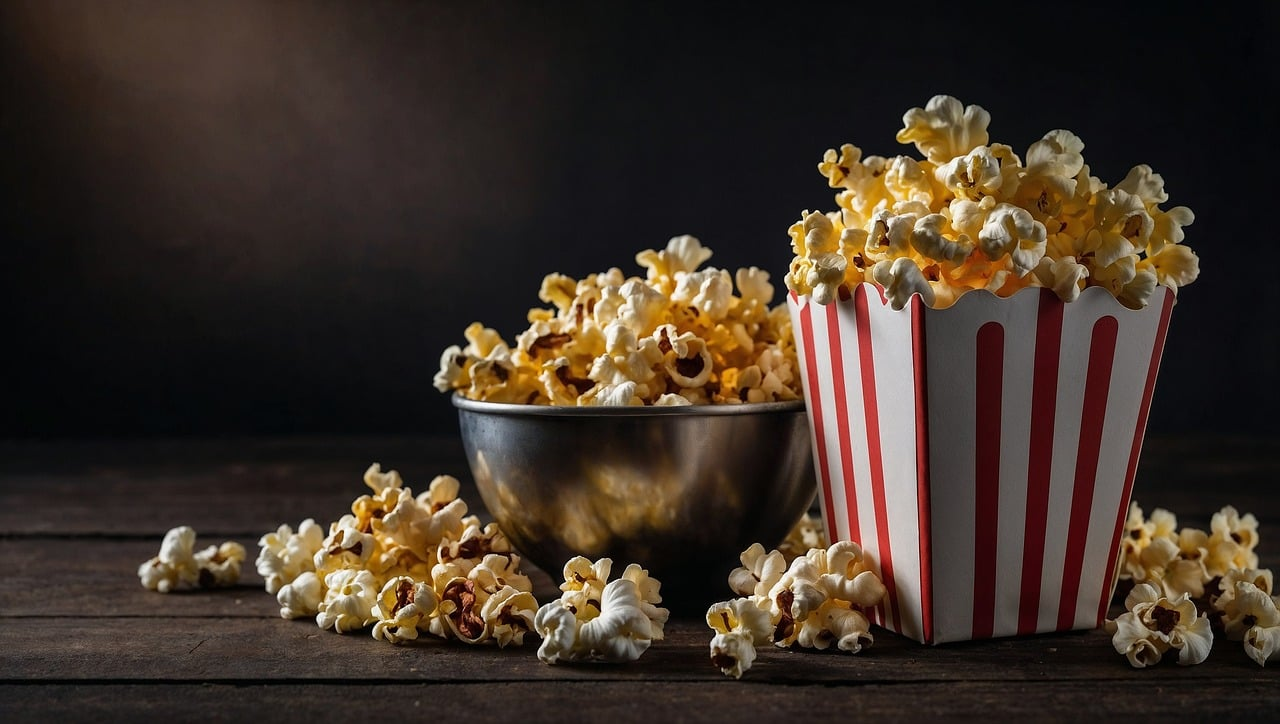
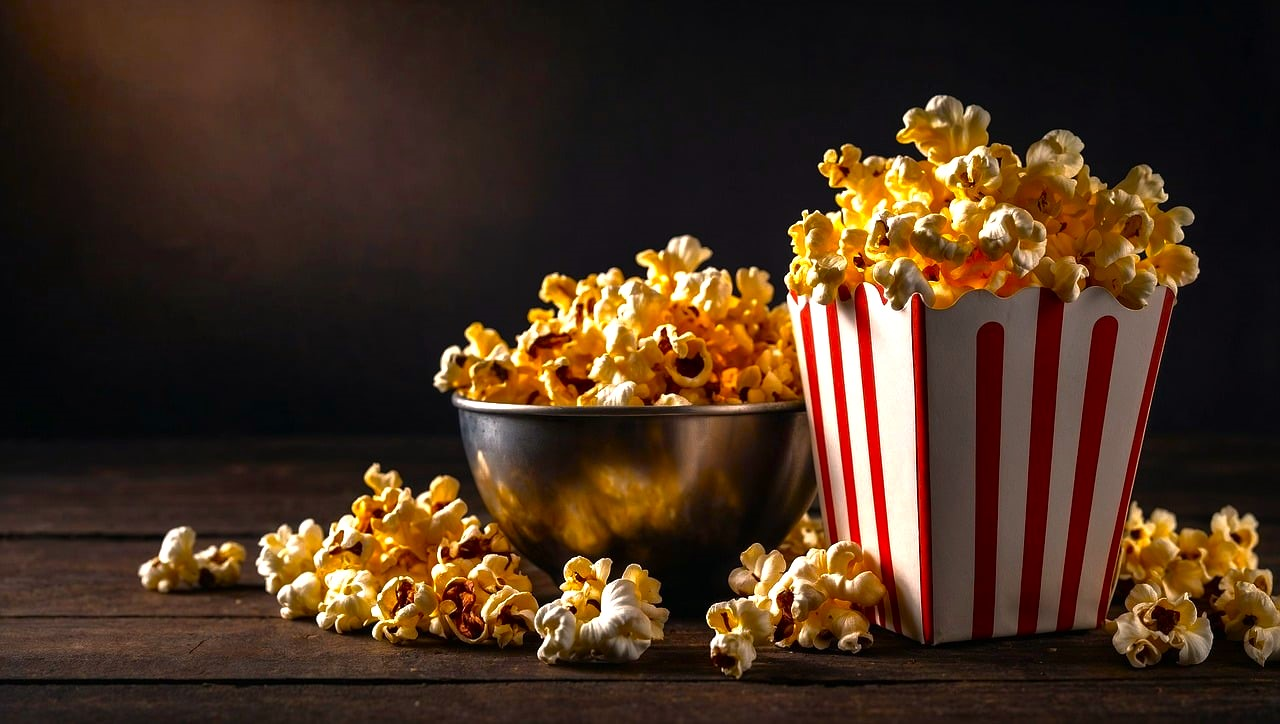
ADD pages for Popular, Top Rated and TV Shows

Changed region(s): [[0.0938, 0.1215, 0.9375, 0.9116], [0.8438, 0.6989, 1.0, 0.9116], [0.875, 0.4862, 0.9062, 0.5166]]

diff --git a/src/App.tsx b/src/App.tsx
@@ -3,12 +3,18 @@ import Navbar from "./components/Navbar";
 import "./styles/App.css";
 
 import Home from "./pages/Home";
+// import Popular from "./pages/Popular";
+// import TopRated from "./pages/TopRated";
+// import TvShows from "./pages/TvShows";
 
 function App() {
   return (
     <>
       <Navbar />
       <Home />
+      {/* <Popular /> */}
+      {/* <TopRated /> */}
+      {/* <TvShows /> */}
     </>
   );
 }

diff --git a/src/pages/TopRated.tsx b/src/pages/TopRated.tsx
@@ -1,0 +1,17 @@
+import ApiDataItems from "../components/ApiDataItems";
+import { top_rated_movies } from "../modules/ApiEndpoints";
+
+const TopRated = () => {
+  return (
+    <>
+      <ApiDataItems
+        sectionHeader="TOP RATED MOVIES"
+        apiEndpoint={top_rated_movies}
+        numberOfRecords={12}
+        imgSrc="src/assets/movieReels.jpg"
+      />
+    </>
+  );
+};
+
+export default TopRated;

diff --git a/src/pages/TvShows.tsx b/src/pages/TvShows.tsx
@@ -1,0 +1,17 @@
+import ApiDataItems from "../components/ApiDataItems";
+import { top_rated_tv_shows } from "../modules/ApiEndpoints";
+
+const TvShows = () => {
+  return (
+    <>
+      <ApiDataItems
+        sectionHeader="TV SHOWS"
+        apiEndpoint={top_rated_tv_shows}
+        numberOfRecords={12}
+        imgSrc="src/assets/tvShows.jpg"
+      />
+    </>
+  );
+};
+
+export default TvShows;

diff --git a/src/pages/Popular.tsx b/src/pages/Popular.tsx
@@ -1,0 +1,17 @@
+import ApiDataItems from "../components/ApiDataItems";
+import { popular_movies } from "../modules/ApiEndpoints";
+
+const Popular = () => {
+  return (
+    <>
+      <ApiDataItems
+        sectionHeader="POPULAR MOVIES"
+        apiEndpoint={popular_movies}
+        numberOfRecords={12}
+        imgSrc="src/assets/popcorns.jpg"
+      />
+    </>
+  );
+};
+
+export default Popular;

diff --git a/src/components/Navbar.tsx b/src/components/Navbar.tsx
@@ -8,11 +8,11 @@ const navLinkName = [
   },
   {
     id: 2,
-    title: "New Releases",
+    title: "Popular",
   },
   {
     id: 3,
-    title: "Popular",
+    title: "Top Rated",
   },
   {
     id: 4,
